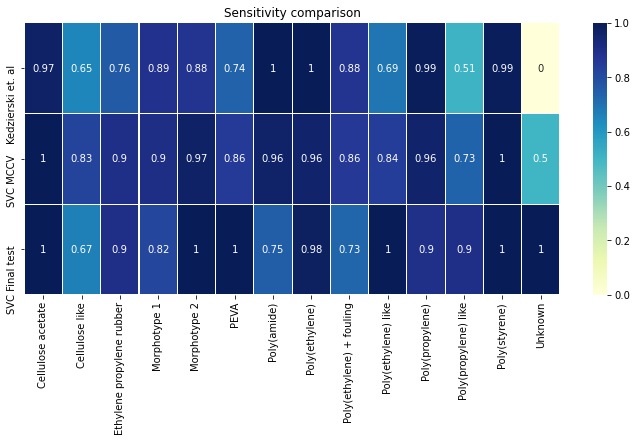
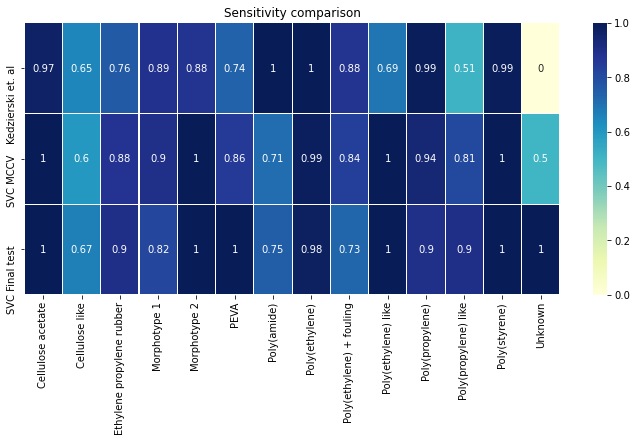
Graphics update
Novo padrao para salvar figuras do gs_heatmap, removendo o sufixo log_loss (implítico). Além disso a implementação da tabela final foi atualizada, usando o detailed score file.

diff --git a/graphics.py b/graphics.py
@@ -93,7 +93,7 @@ def gs_heatmap():
         
         ax.set_title('Best model: ' + name )
     
-    fig.savefig(os.path.join(results_path, 'gs_log_loss.png'),
+    fig.savefig(os.path.join(results_path, 'gs.png'),
                 bbox_inches = "tight")
     
     return df_list
@@ -322,7 +322,7 @@ def detailed_score_heatmap(df, name):
     
     
 
-def final_table(name = 'SVC_linear_0.002'):
+def final_table():
         
     names, classes = classes_names()
         
@@ -346,9 +346,14 @@ def final_table(name = 'SVC_linear_0.002'):
         w0.append(ked_et_al[n])
             
     w0 = np.array(w0)
+    
+    
         
     #Load model's sensitivity mccv data
-    df1 = pd.read_csv(os.path.join('mccv_data', name,'detailed_score.csv'))
+    df1 = pd.read_csv(os.path.join('results', 
+                                  'final_model_mhv_all_data_detailed_score.csv'),
+                      index_col=0)
+                                       
     w1 = df1.mean(axis=0).values.reshape(classes, 4)
     w1 = np.around(w1, decimals=3)[:, 0] 
         
@@ -371,7 +376,8 @@ def final_table(name = 'SVC_linear_0.002'):
     sns.heatmap(df,
                 annot=True, linewidths= 0.05, cmap='YlGnBu', ax = ax)
     
-    fig.savefig(os.path.join('results', name + '_final_table.png'),
+    fig.savefig(os.path.join('results', 
+                             'SVC_linear_0.002' + '_final_table.png'),
                 bbox_inches = "tight")
 
         
